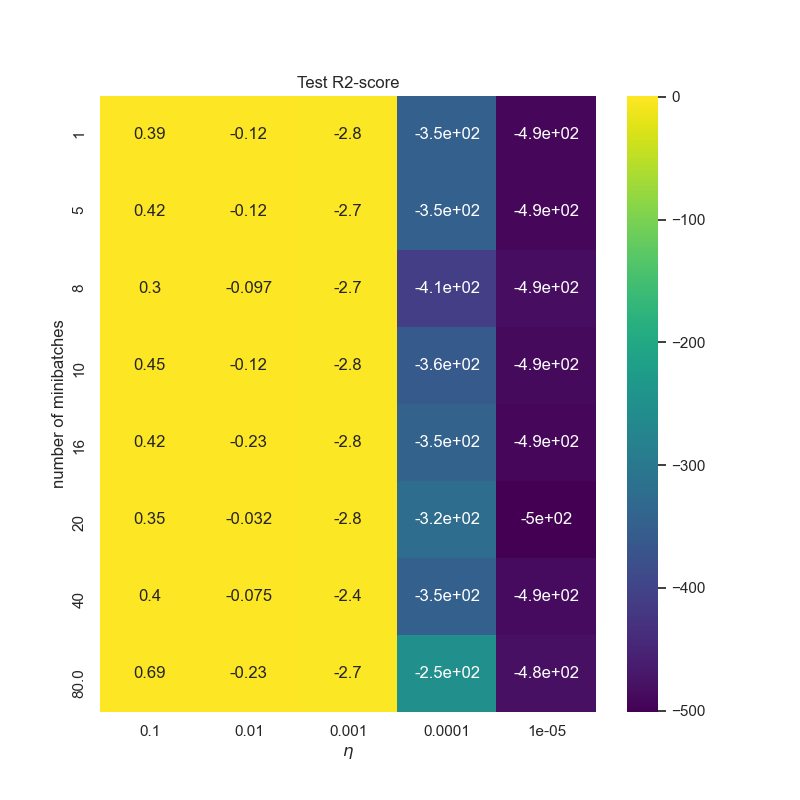
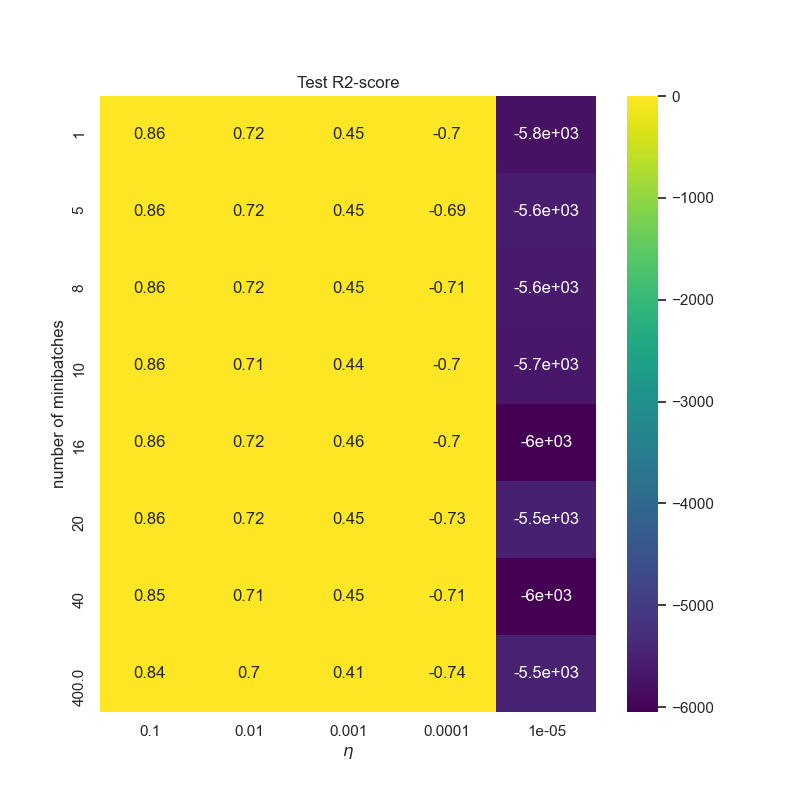
last edits

diff --git a/project2/code/test_project_2.py b/project2/code/test_project_2.py
@@ -31,20 +31,20 @@ against the results of project 1. For the Ridge case, it will provide
 a seaborn visualization with hyperparameter lambda and the learning rate
 """
 
-test1 = False
+test1 = True
 if test1:
     print('>> RUNNING TEST 1:')
     # Generating some data (Franke Function)
-    n = 100
+    n = 500
     noise = 0.01
     x_values, y_values, z_values = helper.generate_data(n, noise)
-    number_of_epochs = 10
+    number_of_epochs = 200
 
-    degree = 5  # complexity of the model
+    degree = 4  # complexity of the model
     gamma = 0.7  # the momentum of the stochastic gradient decent
 
     "Set to true, stochastic gradient decent testing with OLS"
-    run_main_OLS = True
+    run_main_OLS = False
     if run_main_OLS:
         print('> Analysing the gradient descent algorithm with OLS')
 
@@ -59,7 +59,7 @@ if test1:
 
     no_of_minibatches = 20
     "Set to true, stochastic gradient decent testing with RIDGE"
-    run_main_RIDGE = False
+    run_main_RIDGE = True
     if run_main_RIDGE:
         print('> Analysing the gradient descent algorithm with RIDGE')
         gradient_descent.main_RIDGE(
@@ -144,7 +144,7 @@ provide the results from the three different methods in R2-score. And the
 time spent for creating these models.
 """
 
-test3 = True
+test3 = False
 if test3:
     print('>> RUNNING TEST 3:')
     # Initializing some data
@@ -491,19 +491,19 @@ test7 = False
 if test7:
     print('>> RUNNING TEST 7:')
     # Loading the training and testing dataset
-    n_components = 10
+    n_components = 2
     X_cancer_train, X_cancer_test, y_cancer_train, y_cancer_test = helper.load_cancer_data(
         n_components)
 
-    learning_rates = np.logspace(0, -4, 5)
+    learning_rates = np.logspace(1, -3, 5)
     lmbda_values = np.logspace(-1, -7, 7)
 
     train_accuracy_score = np.zeros((len(learning_rates), len(lmbda_values)))
     test_accuracy_score = np.zeros((len(learning_rates), len(lmbda_values)))
 
-    n_epochs = 5
-    batch_size = 30
-    gamma = 0.4
+    n_epochs = 40
+    batch_size = 14
+    gamma = 0.8
     iter = 0
     for i, eta in enumerate(learning_rates):
         for j, lmbda in enumerate(lmbda_values):
@@ -557,7 +557,7 @@ DATASET: CANCER DATA (classification case)
 Comparison: logistic regression vs classification with Neural Network. Comparing
 the R2-score on testing and training data, and the time spent on training the model.
 """
-test8 = False
+test8 = True
 if test8:
     print('>> RUNNING TEST 8:')
     "First, setting up the Neural Network and finding the results"
@@ -569,7 +569,7 @@ if test8:
 
     time_NN_start = time.time()
     # Setting the architecture of the Neural Network
-    node_list = [2]*1
+    node_list = [20]*1
 
     # Initializing the Neural Network
     FFNN = Neural_Network(
@@ -580,21 +580,21 @@ if test8:
 
     # Setting the preffered Stochastic Gradient Descent parameters
     FFNN.set_SGD_values(
-        n_epochs=20,
-        batch_size=10,
-        gamma=0.8,
-        eta=0.01,
+        n_epochs=4,
+        batch_size=14,
+        gamma=0.5,
+        eta=0.001,
         lmbda=1e-5)
 
     # Setting the preffered cost- and activation functions
     FFNN.set_cost_function(logistic_cost_NN)
-    # FFNN.set_activation_function_hidden_layers('sigmoid')
+    FFNN.set_activation_function_hidden_layers('RELU')
     FFNN.set_activation_function_output_layer('sigmoid')
     FFNN.train_model(X_cancer_train, y_cancer_train)
 
     # Change the activation function to predict 0 or 1's.
     FFNN.set_activation_function_output_layer('sigmoid_classification')
-    print('>>>>> Results of classification problem with Neural Network <<<<<')
+    print('>>> Results of classification problem with Neural Network <<<')
     print(
         f'ACCURACY_train = {helper.accuracy_score(FFNN.feed_forward(X_cancer_train),  y_cancer_train): .4f}')
     print(
@@ -608,18 +608,18 @@ if test8:
         X=X_cancer_train, y=y_cancer_train,
         # initial guess of the betas
         theta_init=np.array([0.1]*(X_cancer_train.shape[1] + 1)),
-        eta=0.01,
+        eta=0.1,
         cost_function=cost_logistic_regression,
-        n_epochs=30, batch_size=10,
+        n_epochs=3, batch_size=14,
         gamma=0.8,
-        lmbda=1e-4
+        lmbda=1e-3
     )
 
     # Finding the predicted values
     predicted_values_train = np.where(prob(theta, X_cancer_train) >= 0.5, 1, 0)
     predicted_values_test = np.where(prob(theta, X_cancer_test) >= 0.5, 1, 0)
 
-    print('\n>>>>> Results of logistic regression, with SGD <<<<<')
+    print('\n>>> Results of logistic regression, with SGD <<<')
     print(
         f'ACCURACY_train => {helper.accuracy_score(predicted_values_train, y_cancer_train): .4f}')
     print(
@@ -993,7 +993,7 @@ Analysis of the gradient descent algorithm, is scaling/ updating of
 the learning rate necessary?
 
 """
-test13 = True
+test13 = False
 if test13:
     print('>> RUNNING TEST 13:')
     n = 100
